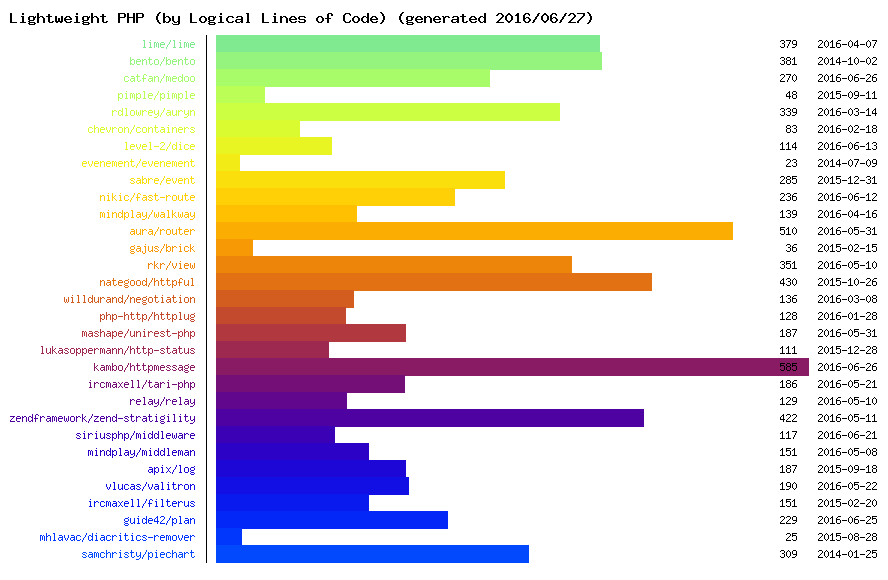
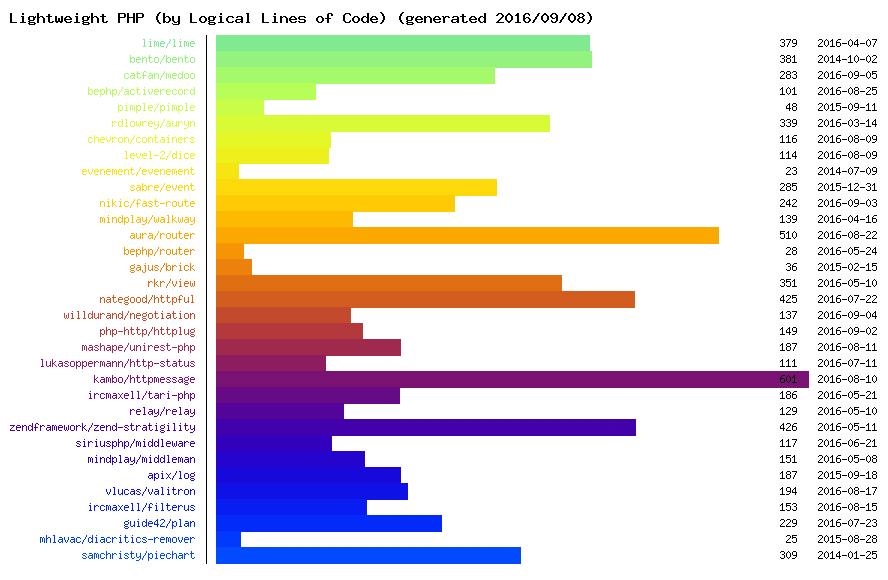
Fixes #1

diff --git a/README.md b/README.md
@@ -24,6 +24,7 @@ List of lightweight PHP libraries.
 ## Database
 
 * [Medoo](https://github.com/catfan/Medoo) - The Lightest PHP database framework to accelerate development
+* [bephp/activerecord](https://github.com/bephp/activerecord) - Micro activerecord library in PHP
 
 ## Dependency Injection
 
@@ -43,6 +44,7 @@ List of lightweight PHP libraries.
 * [FastRoute](https://github.com/nikic/FastRoute) - Fast request router for PHP
 * [Walkway](https://github.com/mindplay-dk/walkway) - Elegant, modular router for PHP
 * [Aura.Router](https://github.com/auraphp/Aura.Router) - A web router implementation for PHP
+* [bephp/router](https://github.com/bephp/router) - A barebones router for PHP
 
 ## Templating
 
